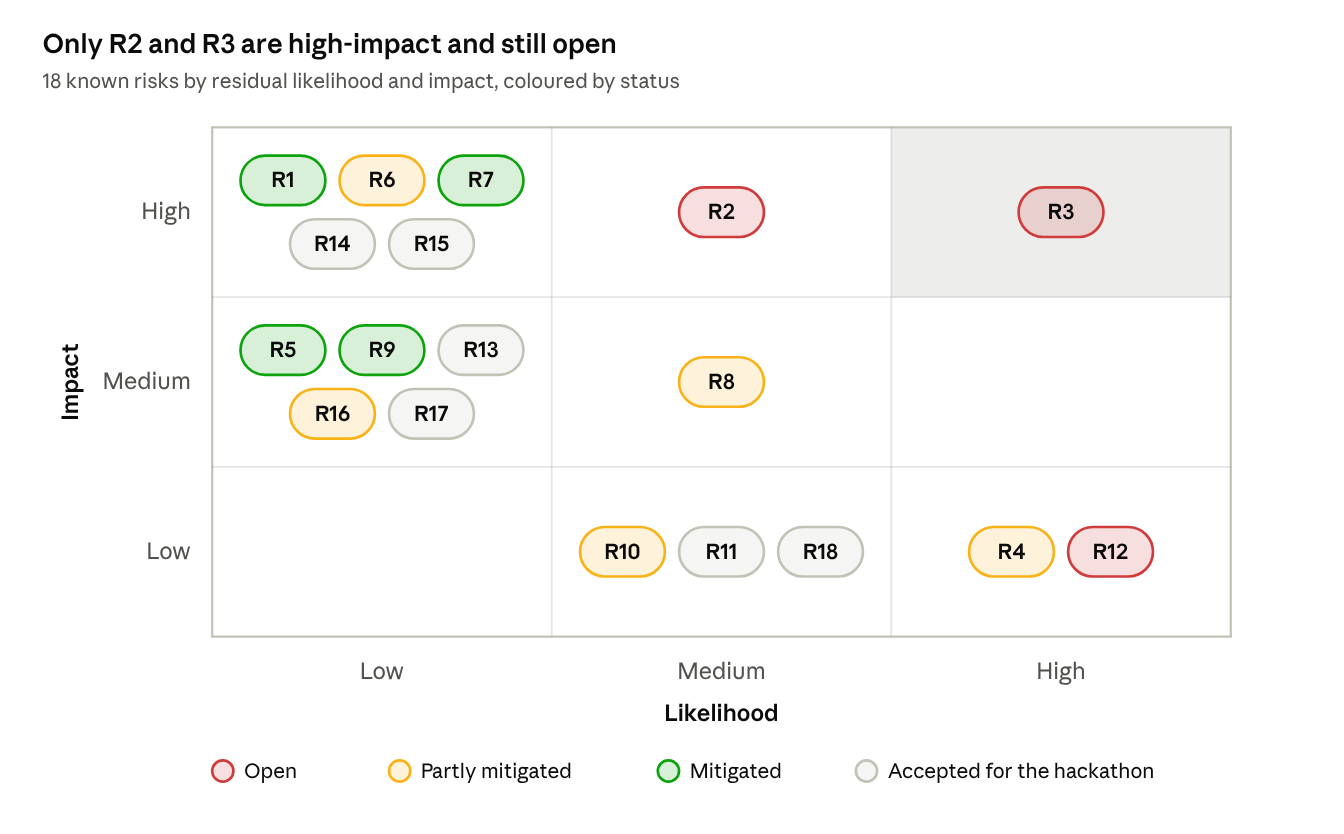
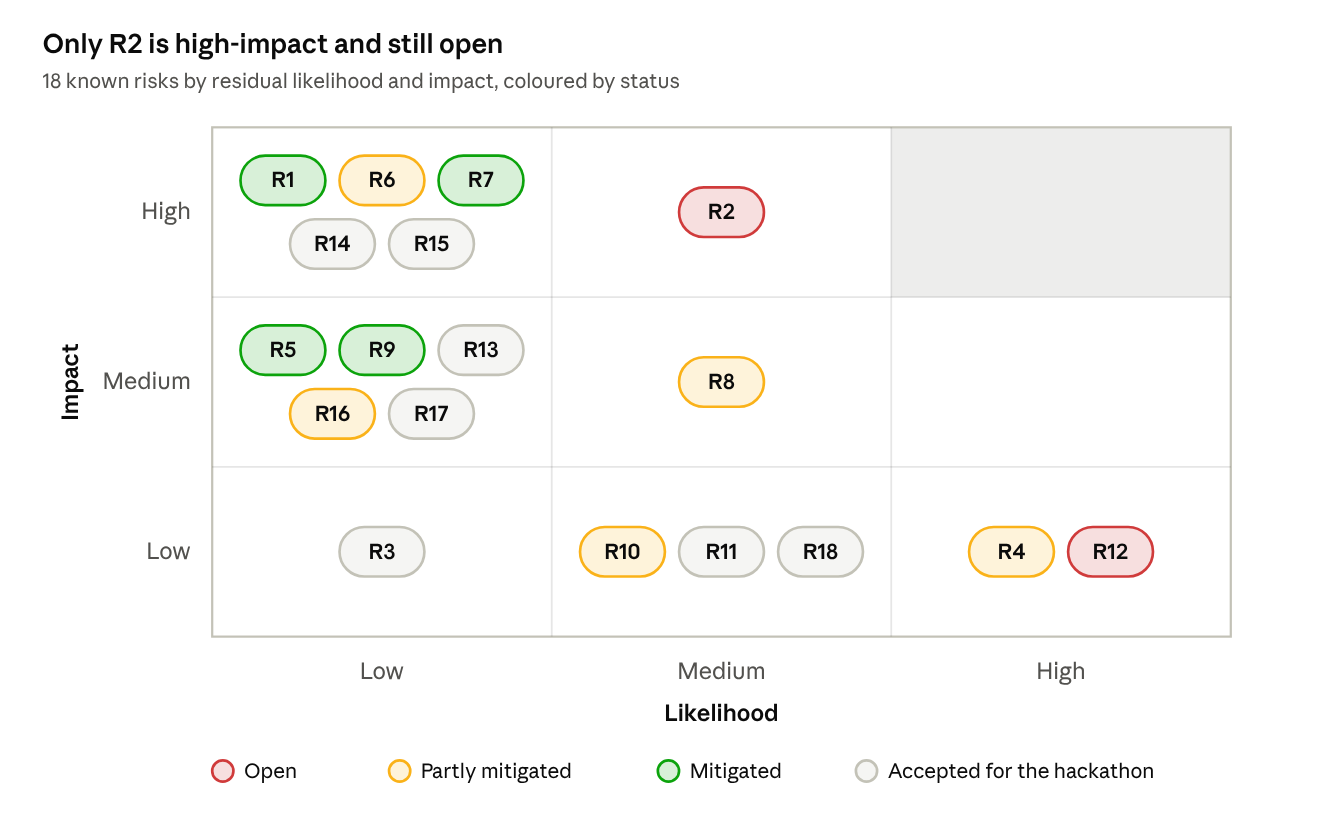
P2 docs: R3 is a demo-only risk, say confidential values instead of secrets

Changed region(s): [[0.0938, 0.0312, 0.4688, 0.0935], [0.75, 0.2182, 0.8438, 0.3118], [0.25, 0.6235, 0.3125, 0.717]]

diff --git a/docs/SECURITY_SELF_ASSESSMENT.md b/docs/SECURITY_SELF_ASSESSMENT.md
@@ -92,17 +92,17 @@ On top of these levels, limits follow the wallet across runs and processes (`Spe
 | Records | Personal data kept forever | Conversations erased after 30 days or on request. Offers, transactions and receipts kept (AML record keeping) | `shared/retention.py` | No |
 | Records | Buyer data exposed | Live view, audit, stats and compliance routes owner-only | `shared/owner.py`, `gateway/routers/events.py` | No |
 
-Across all stages: sensitive values (`JWT_SECRET`, which signs session tokens, the Anthropic API key, owner tokens and wallet private keys) live in `.env`, a local file that git never commits, or in encrypted keystores (`scripts/encrypt_keys.py`, password in the OS keychain). `log_event()` masks payload keys such as `token`, `secret`, `private_key`, `authorization`. The payment signature is never logged. Paid routes are rate-limited to 30 requests per minute per session (per IP before KYA). API responses carry `nosniff`, `X-Frame-Options: DENY`, a `default-src 'none'` CSP and `no-store` on paid content. `pip-audit` reports no known Python vulnerability (18 Oct).
+Across all stages: confidential values (`JWT_SECRET`, which signs session tokens, the Anthropic API key, owner tokens and wallet private keys) live in `.env`, a local file that git never commits, or in encrypted keystores (`scripts/encrypt_keys.py`, password in the OS keychain). `log_event()` masks payload keys such as `token`, `secret`, `private_key`, `authorization`. The payment signature is never logged. Paid routes are rate-limited to 30 requests per minute per session (per IP before KYA). API responses carry `nosniff`, `X-Frame-Options: DENY`, a `default-src 'none'` CSP and `no-store` on paid content. `pip-audit` reports no known Python vulnerability (18 Oct).
 
 ## Known-risk list
 
-18 known risks: 3 open, 5 partly mitigated, 4 mitigated, 6 accepted for the hackathon. The two that matter most before a public deployment are R2 and R3: who may list a site, and who may read its content outside the paid path.
+18 known risks: 2 open, 5 partly mitigated, 4 mitigated, 7 accepted for the hackathon. The one that matters most before a public deployment is R2: anyone could list a site they do not own.
 
 | ID | Risk | Current mitigation | Status |
 | --- | --- | --- | --- |
 | R1 | Publisher setup routes (rules, payout wallet, scan, catalog) could be changed by anyone who reaches the gateway | Owner-only since 18 Oct: loopback or `PUBLISHER_OWNER_TOKEN`, constant-time compare, rotation and expiry. Payout wallet screened | Mitigated |
 | R2 | Domain ownership is not verified at onboarding: someone could list a site they do not own | Demo uses our own simulated site. Planned DNS or file-based ownership check | Open |
-| R3 | Agents are recognised only when they declare themselves. An undeclared bot reads public pages, and the demo's paid PDFs are public files on Vercel | KYA proves who pays, not who is a bot. Planned Web Bot Auth, and PDFs moved out of the public site | Open |
+| R3 | Demo only: the simulated site serves its paid PDFs as public files, so anyone can download them without paying. Agents that do not declare themselves are treated as human visitors | In production, paid content is uploaded or read from a private URL and never published, so a visitor or an undeclared bot only sees what the publisher already gives away. The gateway delivers paid content only after settlement | Accepted |
 | R4 | New wallets are free, so many identities can bypass the 3-sections-per-report daily limit and rebuild a report | Limit now follows the wallet and is re-checked at accept. Every section is still paid at its full tier. Reputation or stake per wallet is future work | Partly mitigated |
 | R5 | Leak filter misses figures written in words, rounded or derived ("about 31%") | By design the Sales agent never sees paid figures. Filter normalises Unicode as a second rail | Mitigated |
 | R6 | Buyer and publisher private keys are hot keys | Encrypted keystores (scrypt, AES-128-CTR) with the password in the OS keychain on P3's machine. `.env.mainnet` and other machines not migrated yet. Production needs a KMS or server wallet | Partly mitigated |
@@ -112,7 +112,7 @@ Across all stages: sensitive values (`JWT_SECRET`, which signs session tokens, t
 | R10 | A buyer LLM is talked into a poor purchase within limits. In the MCP connector, approval relies on the assistant asking its user | 1.00 threshold, 2.50 cap, 25 USDC per day, structuring detection, all in code. `owner_approved` counts only after the connector asked | Partly mitigated |
 | R11 | Approvals, buyer runs and rate-limit counters live in memory, per process | Transactions and the spend ledger are persisted. Acceptable for a single-process demo | Accepted |
 | R12 | Smallest sold unit is a report section, so a 0.10 "one figure" sale delivers several figures | Tier floor stops selling a section below its tier. Atomic fact items planned | Open |
-| R13 | Sessions use one HS256 secret with no revocation. A leaked secret would allow forged sessions | 15-minute tokens bound to agent id and wallet. Warning when `JWT_SECRET` is under 32 characters. A forged session still cannot pay from another wallet | Accepted |
+| R13 | Sessions are signed with one HS256 key (`JWT_SECRET`) with no revocation. A leaked key would allow forged sessions | 15-minute tokens bound to agent id and wallet. Warning when `JWT_SECRET` is under 32 characters. A forged session still cannot pay from another wallet | Accepted |
 | R14 | Sanctions screening covers OFAC only, through a free oracle with no timeliness guarantee. Fail-open on testnet | Fail-closed on mainnet. Local blocklist. Paid screening (KYT, TRM, Elliptic) and EU, UN, UK lists are post-hackathon | Accepted |
 | R15 | Manifest trust is trust on first use: a forged first contact would be pinned | `BUYER_TRUSTED_SIGNERS` pins keys explicitly. Signer published at `/compliance/signer`. DNS-published signer planned | Accepted |
 | R16 | The audit chain lives in the database it protects: tampering is detectable, not prevented | `scripts/anchor_audit.py` writes the head on-chain. Not yet run (needs gas) | Partly mitigated |
@@ -121,7 +121,7 @@ Across all stages: sensitive values (`JWT_SECRET`, which signs session tokens, t
 
 ![Risk matrix: 18 risks by residual likelihood and impact](img/risk-matrix.png)
 
-Likelihood is the team's estimate of the residual risk for a public deployment, after current mitigations. The two high-impact risks still open (R2, R3) sit outside the payment path.
+Likelihood is the team's estimate of the residual risk for a public deployment, after current mitigations. The only high-impact risk still open (R2) sits outside the payment path.
 
 ## Evidence
 
@@ -145,13 +145,13 @@ All 27 payments (25 Base Sepolia, 2 Base mainnet) are listed from the chain's US
 
 ## Hardening roadmap before mainnet
 
-The payment path and the compliance layer are ready for small real amounts, as the mainnet sale shows. What remains is about who may list and read content, and about key custody.
+The payment path and the compliance layer are ready for small real amounts, as the mainnet sale shows. What remains is about who may list a site, and about key custody.
 
 1. Verify domain ownership at onboarding with a DNS record or a file on the site (R2).
-2. Move the paid PDFs out of the public site, keep premium content off public pages, and accept signed bot requests (Web Bot Auth) next to wallet KYA (R3).
+2. Before any public demo, move the paid PDFs out of the demo site, and accept signed bot requests (Web Bot Auth) next to wallet KYA to recognise agents that do not declare themselves (R3).
 3. Run `scripts/encrypt_keys.py` on every machine and on `.env.mainnet`, then move keys to a KMS or server wallet (R6).
 4. Anchor the audit head on-chain on a schedule (R16), and publish the manifest signer in DNS to remove trust on first use (R15).
 5. Add a paid screening provider and the EU, UN and UK lists (R14).
 6. Persist approvals and rate-limit counters in a shared store, and configure a second facilitator (R8, R11).
 7. Sell atomic fact items, and add per-wallet reputation or stake against many-identity reconstruction (R4, R12).
-8. Replace the shared JWT secret with rotating or asymmetric keys (R13), and upgrade wagmi to clear the npm alerts (R17).
+8. Replace the single session-signing key with rotating or asymmetric keys (R13), and upgrade wagmi to clear the npm alerts (R17).

diff --git a/docs/TECHNICAL_DOCUMENTATION.md b/docs/TECHNICAL_DOCUMENTATION.md
@@ -114,7 +114,7 @@ Security rests on five principles, each enforced in code. The permission tiers, 
 - **The seller never sees what it sells.** The Sales agent works from metadata only. Paid content is loaded once, after settlement, for the buyer who paid.
 - **Money moves before data, only once, and only between screened parties.** The amount is fixed server-side, the payer must be the KYA wallet, both sides are screened against OFAC, `(nonce, offer_id)` is unique, settlement happens on-chain before delivery, and a lost delivery is recovered from the chain.
 - **Configuration and buyer data belong to their owner.** Publisher setup, dashboards with buyer data and buyer controls accept only loopback callers or an owner token.
-- **Everything is visible and provable.** Every step emits an event with secrets masked, chained by SHA-256. Each sale ends with a signed license receipt.
+- **Everything is visible and provable.** Every step emits an event with confidential values masked, chained by SHA-256. Each sale ends with a signed license receipt.
 
 ## Data model and API
 
@@ -184,7 +184,7 @@ NEXT_PUBLIC_GATEWAY_URL=http://localhost:8000 npm run dev   # http://localhost:3
 | `FACILITATOR_URL` | `https://x402.org/facilitator` | `https://facilitator.payai.network` |
 | How | `.env` | `.env.mainnet`, commands prefixed with `scripts/mainnet.sh` |
 
-Sensitive values live in `.env`, a local file that git never commits: `JWT_SECRET` (the key that signs agent session tokens), the Anthropic API key, the owner tokens and optional facilitator API keys. Wallet private keys go to encrypted keystores with the password in the OS keychain (`KEYSTORE_PASSWORD` where there is none). Set `PUBLISHER_OWNER_TOKEN` and `BUYER_OWNER_TOKEN` to manage the gateway from another machine. Without them, setup and dashboards answer only on loopback. Sanctions screening reads `SANCTIONS_RPC_URL` (Ethereum mainnet). To use your own Claude as a buyer, add `buyer-mcp/server.py` to Claude Desktop or Claude Code (see `buyer-mcp/README.md`).
+Confidential values live in `.env`, a local file that git never commits: `JWT_SECRET` (the key that signs agent session tokens), the Anthropic API key, the owner tokens and optional facilitator API keys. Wallet private keys go to encrypted keystores with the password in the OS keychain (`KEYSTORE_PASSWORD` where there is none). Set `PUBLISHER_OWNER_TOKEN` and `BUYER_OWNER_TOKEN` to manage the gateway from another machine. Without them, setup and dashboards answer only on loopback. Sanctions screening reads `SANCTIONS_RPC_URL` (Ethereum mainnet). To use your own Claude as a buyer, add `buyer-mcp/server.py` to Claude Desktop or Claude Code (see `buyer-mcp/README.md`).
 
 ## Testing and execution evidence
 
